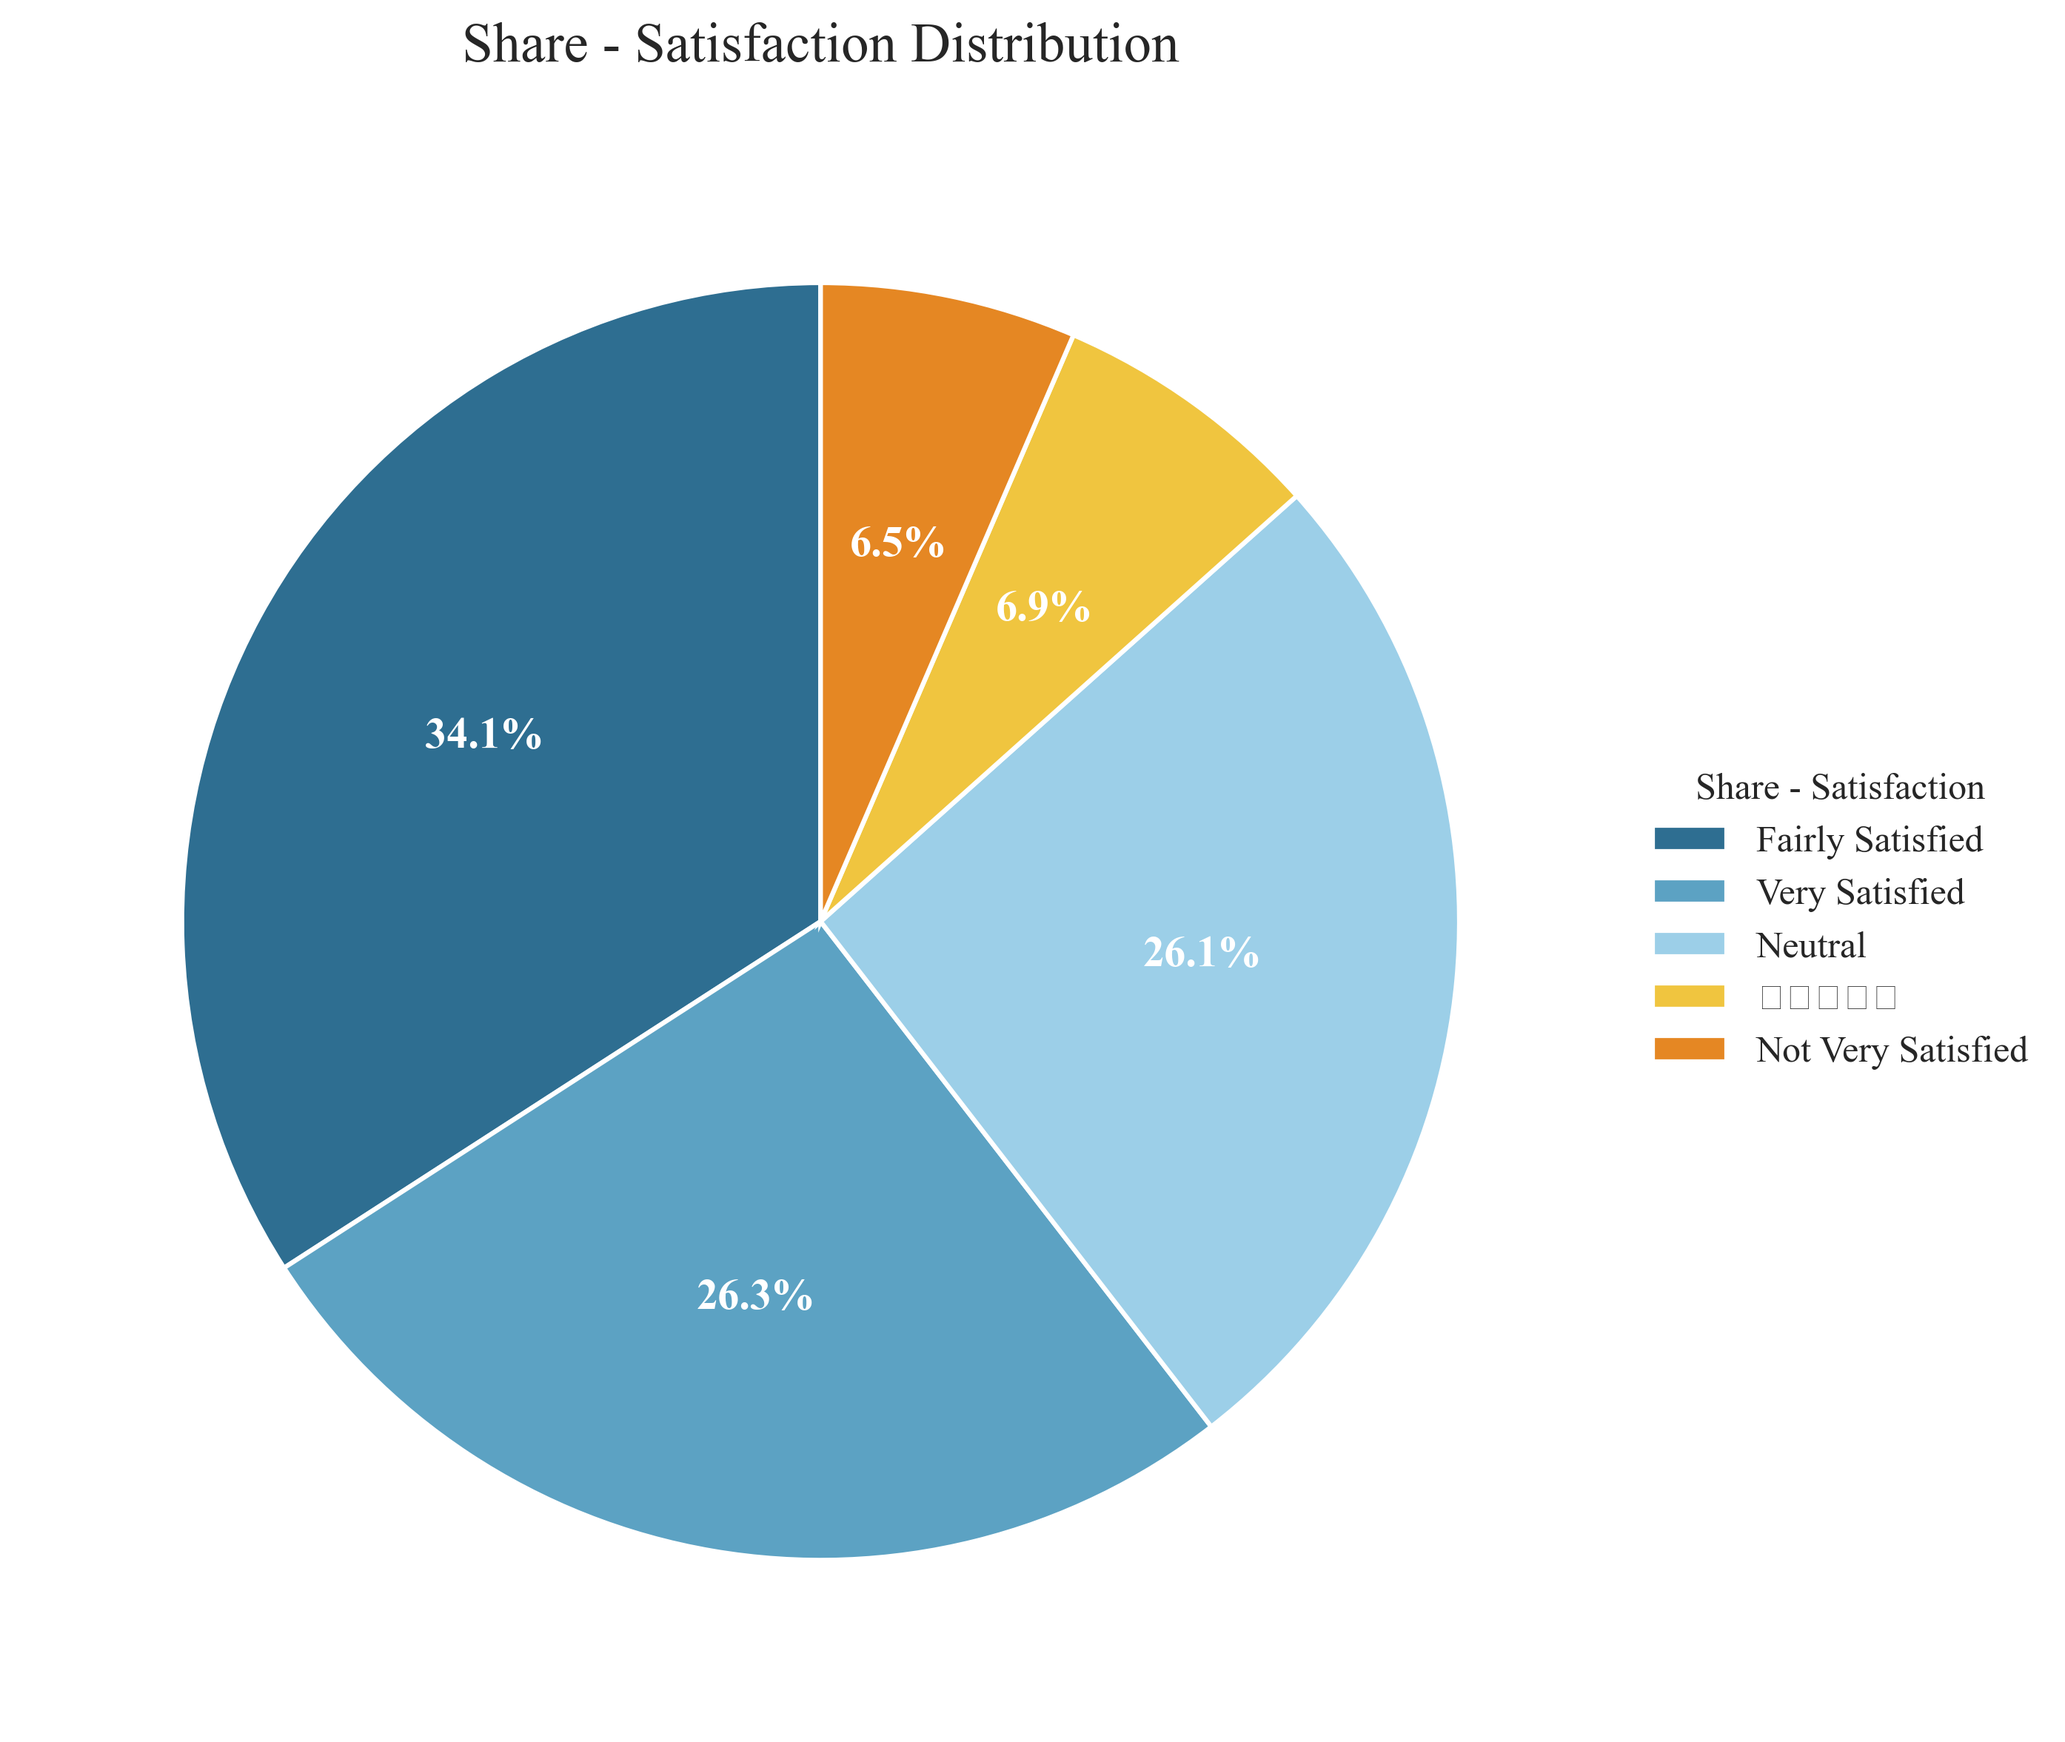
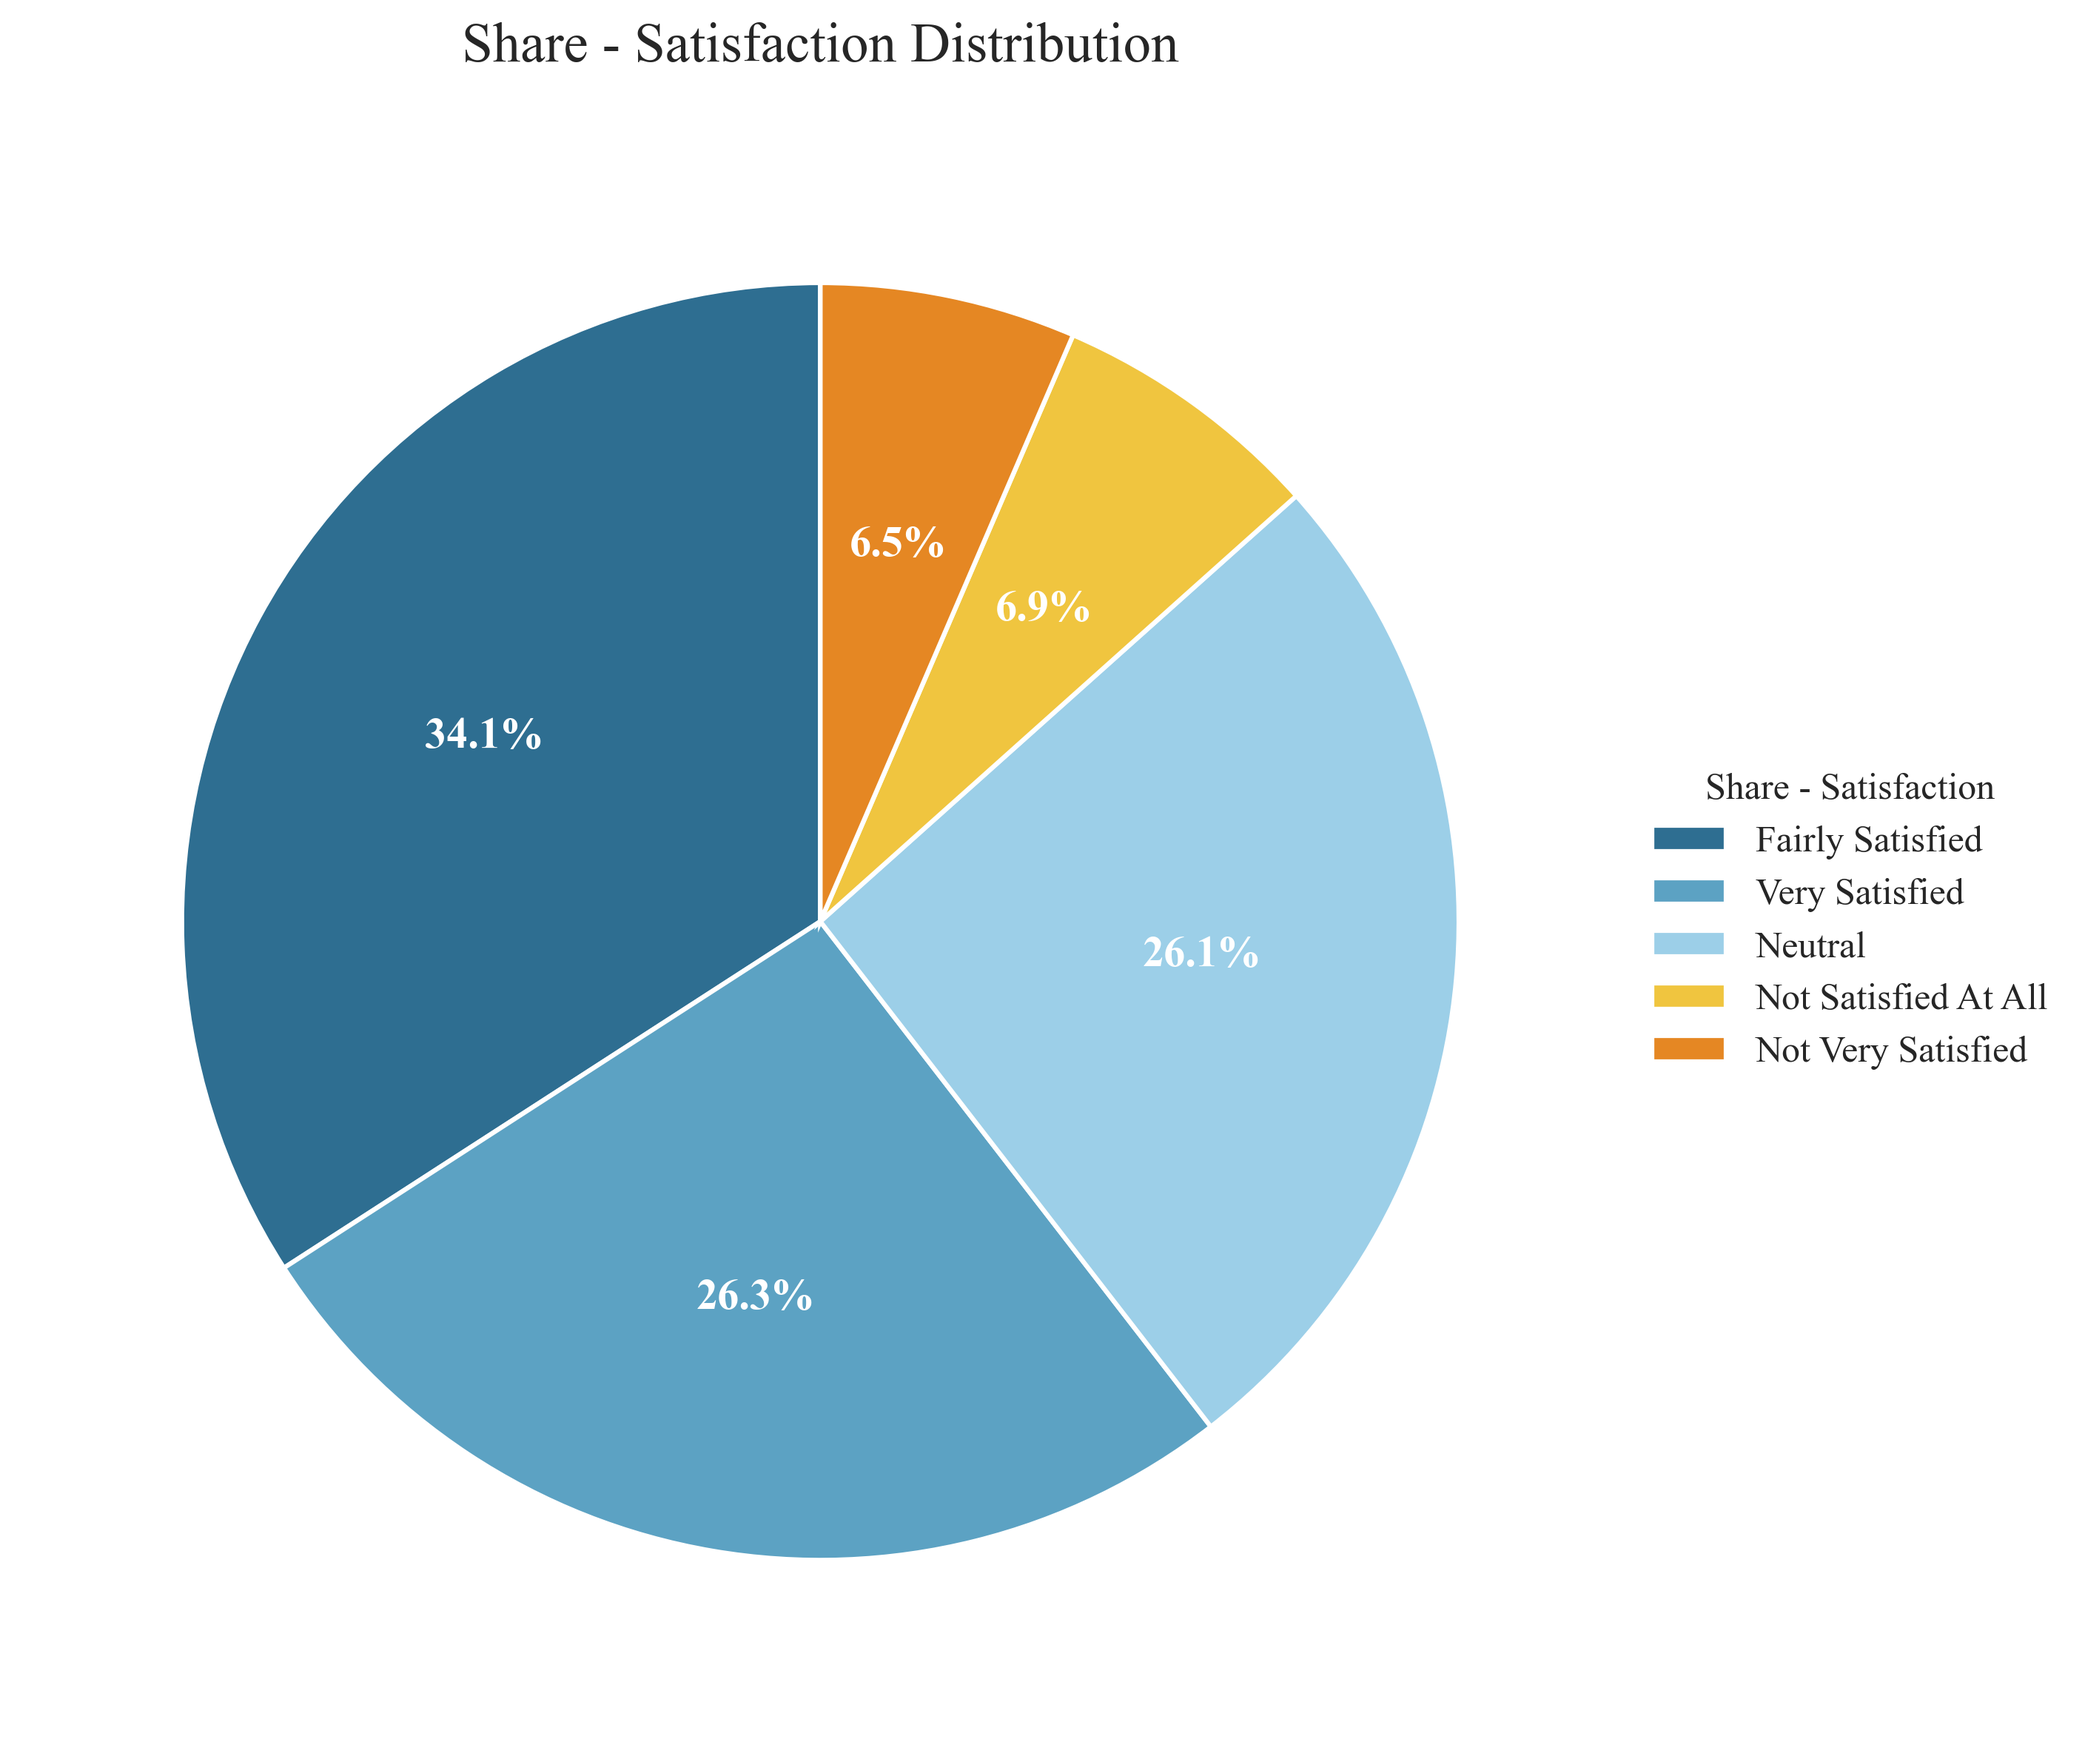
Fixed character encoding issues in charts for Chinese labels

diff --git a/sicas_analysis.py b/sicas_analysis.py
@@ -43,6 +43,7 @@ def get_translated_label(chinese_label):
         '一般': 'Neutral',
         '不太满意': 'Not Very Satisfied',
         '很不满意': 'Not Satisfied At All',
+        '非常不满意': 'Not Satisfied At All',
         
         # Demographics - Gender
         '男': 'Male',
@@ -53,6 +54,7 @@ def get_translated_label(chinese_label):
         '26-35岁': '26-35',
         '36-45岁': '36-45',
         '46岁及以上': '46+',
+        '18岁以下': 'Under 18',
         
         # Demographics - Occupation
         '政府机关工作人员': 'Gov. Employee',
